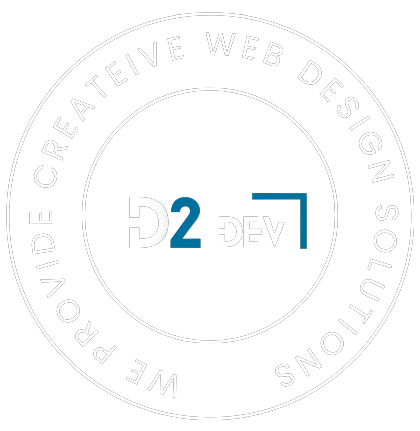
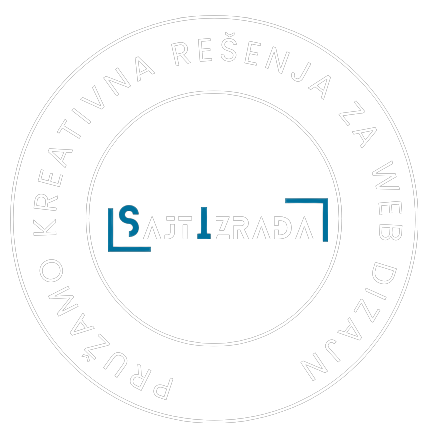
stylized components

diff --git a/src/components/Projects/Projects.js b/src/components/Projects/Projects.js
@@ -3,47 +3,45 @@ import { getProjects } from "../../contentfull/contentfull";
 import { FiArrowUpRight } from "react-icons/fi";
 
 const Projects = () => {
-	const [projects, setProjects] = useState([]);
-	useEffect(() => {
-		getProjects().then((res) => {
-			setProjects(res);
-		});
-	}, []);
+  const [projects, setProjects] = useState([]);
+  useEffect(() => {
+    getProjects().then((res) => {
+      setProjects(res);
+    });
+  }, []);
 
-	return (
-		<section className="section projects" id="projects">
-			<h2 className="section__title">Naši Projekti</h2>
+  return (
+    <section className="section projects" id="projects">
+      <h2 className="section__title">Naši Projekti</h2>
 
-			<div className="projects__container container grid">
-				<div className="projects__content">
-					{projects.map((project, projectId) => (
-						<div className="projects__content" key={projectId}>
-							<div>
-								<img
-									src={project.projectImage.fields.file.url}
-									alt="Projekat_1"
-								/>
-							</div>
-							<h2 className="projects__title">{project.projectTItle}</h2>
-							<h3 className="projects__subtitle">{project.projectTags}</h3>
-							<p className="projects__descritpion">
-								{project.projectDescription.content[0].content[0].value}
-							</p>
-							<a
-								href={project.slug}
-								target="_blank"
-								className="button__read-more"
-								rel="noreferrer"
-							>
-								{" "}
-								Link Projekta <FiArrowUpRight />
-							</a>
-						</div>
-					))}
-				</div>
-			</div>
-		</section>
-	);
+      <div className="projects__container container grid">
+        {projects.map((project, projectId) => (
+          <div className="projects__content" key={projectId}>
+            <div>
+              <img
+                src={project.projectImage.fields.file.url}
+                alt="Projekat_1"
+              />
+            </div>
+            <h2 className="projects__title">{project.projectTItle}</h2>
+            <h3 className="projects__subtitle">{project.projectTags}</h3>
+            <p className="projects__descritpion">
+              {project.projectDescription.content[0].content[0].value}
+            </p>
+            <a
+              href={project.slug}
+              target="_blank"
+              className="button__read-more"
+              rel="noreferrer"
+            >
+              {" "}
+              Link Projekta <FiArrowUpRight />
+            </a>
+          </div>
+        ))}
+      </div>
+    </section>
+  );
 };
 
 export default Projects;

diff --git a/src/components/Header/Header.js b/src/components/Header/Header.js
@@ -28,27 +28,27 @@ const Header = () => {
                     <ul className='nav__list '>
                         <li className='nav__item' onClick={()=> showMenu(!Toogle)}>
                             <a href='#home' onClick={() => setActiveNav('#home')} className={activeNav === "#home" ? "nav__link active-link" : "nav__link"}>
-                                HOME
+                                POČETNA
                             </a>
                         </li>
                         <li className='nav__item' onClick={()=> showMenu(!Toogle)}>
                             <a href='#about' onClick={() => setActiveNav('#about')} className={activeNav === "#about" ? "nav__link active-link" : "nav__link"}>
-                                ABOUT
+                                O NAMA
                             </a>
                         </li>
                         <li className='nav__item' onClick={()=> showMenu(!Toogle)}>
                             <a href='#service' onClick={() => setActiveNav('#service')} className={activeNav === "#service" ? "nav__link active-link" : "nav__link"}>
-                                SERVICES
+                                USLUGE
                             </a>
                         </li>
                         <li className='nav__item' onClick={()=> showMenu(!Toogle)}>
                             <a href='#projects' onClick={() => setActiveNav('#projects')} className={activeNav === "#project" ? "nav__link active-link" : "nav__link"}>
-                                PROJECTS
+                                PROJEKTI
                             </a>
                         </li>
                         <li className='nav__item' onClick={()=> showMenu(!Toogle)}>
                             <a href='#contact' onClick={() => setActiveNav('#contact')} className={activeNav === "#contact" ? "nav__link active-link" : "nav__link"}>
-                                CONTACT
+                                KONTAKT
                             </a>
                         </li>
                     </ul>

diff --git a/src/components/Home/Home.js b/src/components/Home/Home.js
@@ -8,11 +8,11 @@ const Home = () => {
         <div className="home__content ">
           <div className="home__data">
             <h1 className="home__title">
-              WEB <br /> <span className="home__title-stroke">DESIGN</span>{" "}
-              <br /> AGENCY
+              WEB <br /> <span className="home__title-stroke">DIZAJN</span>{" "}
+              <br /> AGENCIJA
             </h1>
             <a href="#contact">
-              <button className="button button-flex">Contact</button>
+              <button className="button button-flex">Kontakt</button>
             </a>
           </div>
         </div>

diff --git a/src/components/Process/Process.js b/src/components/Process/Process.js
@@ -7,7 +7,7 @@ import Developer from '../../assests/icons/developer.png'
 const Process = () => {
   return (
     <section className="section process" id="process">
-      <h2 className="section__title">Od ideje do realizacije</h2>
+      <h2 className="section__title">Kako poslujemo</h2>
       
 
       <div className="process__container container grid">

diff --git a/src/components/Banner/Banner.js b/src/components/Banner/Banner.js
@@ -6,7 +6,7 @@ const Banner = () => {
       <div className="container">
         <div className="banner__text marque">
             <h1>
-                Web <span>Design</span>  Agency
+                Web <span>Dizajn</span>  Agencija
             </h1>
         </div>
       </div>

diff --git a/src/components/Footer/Footer.js b/src/components/Footer/Footer.js
@@ -62,7 +62,7 @@ const Footer = () => {
       </div>
       <div className="copyright-text">
         <p>
-          Copyright &copy; {year}, All Right Reserved D2 Dev
+          Copyright &copy; {year}, All Right Reserved SajtIzrada
          
         </p>
       </div>
